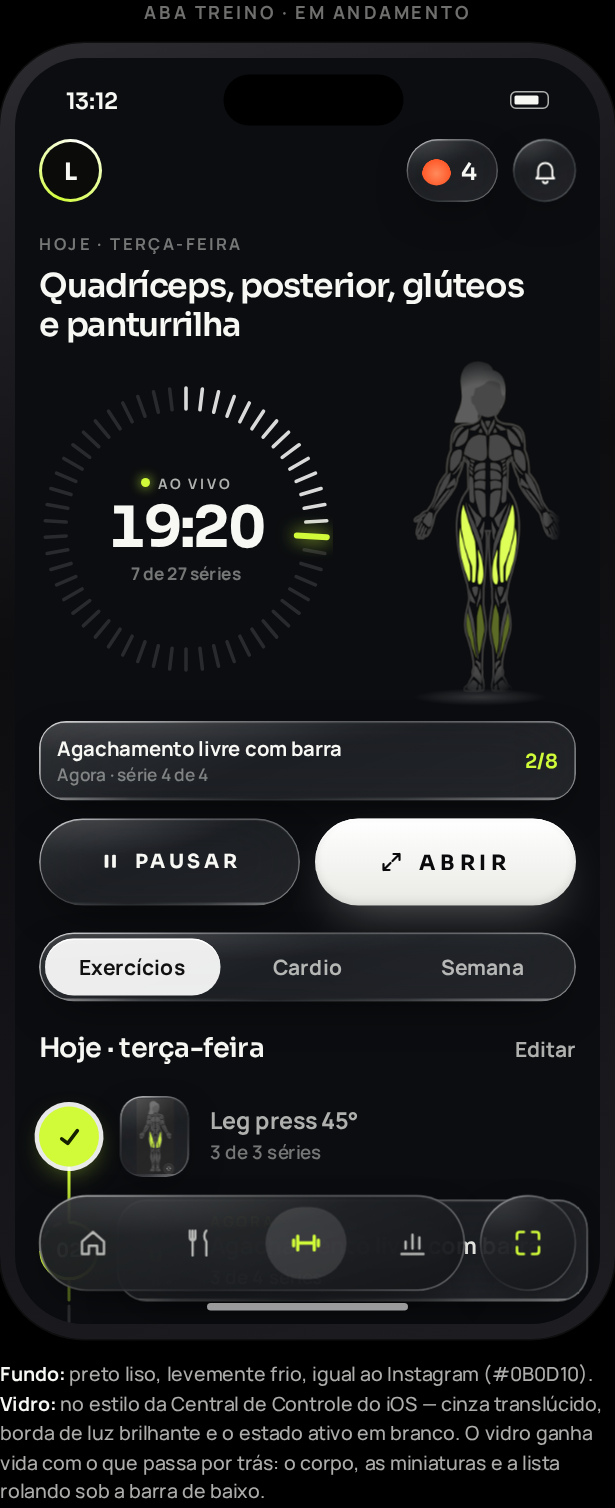
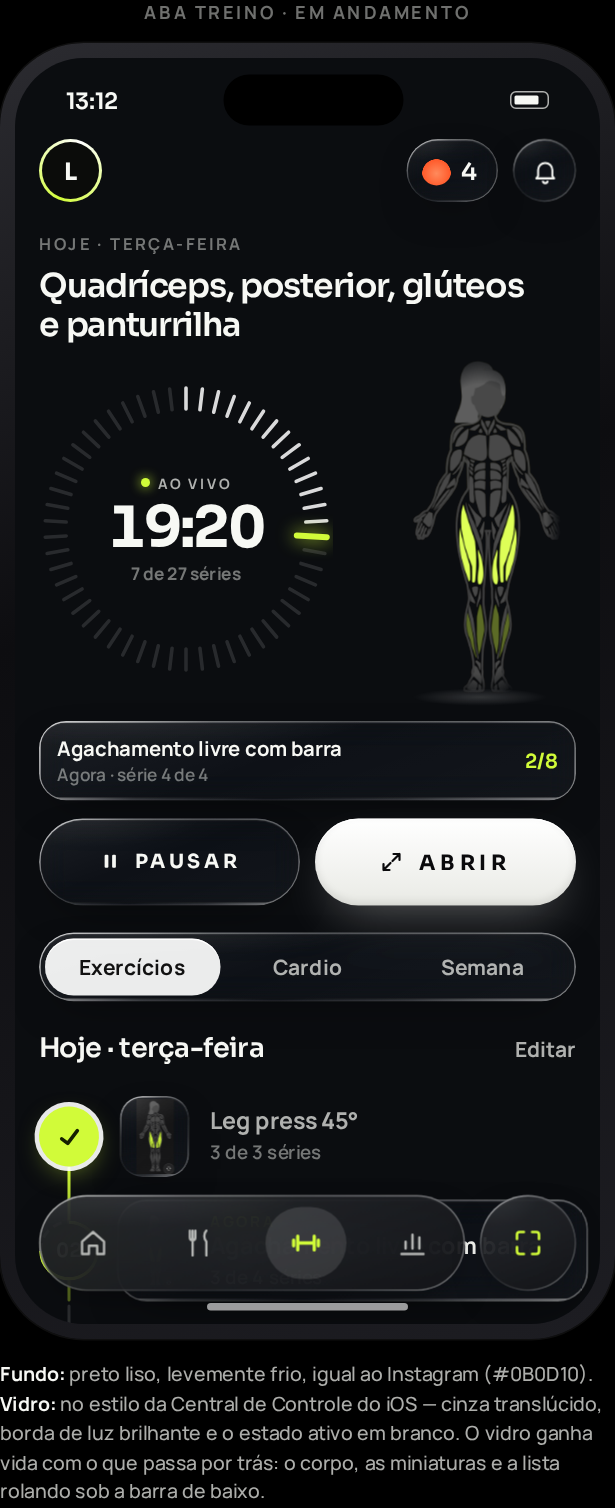
Vidro menos fosco na proposta estilo iOS
Claude-Session: https://claude.ai/code/session_012t93SzLcEenD5Rt5kwwiQ7

diff --git a/design-reference/fundos/ios.html b/design-reference/fundos/ios.html
@@ -240,9 +240,9 @@ svg{display:block}
 .screen.esc::before{display:none}
 /* vidro estilo iOS (Central de Controle / barra do Instagram): cinza translúcido,
    desfoque forte do que passa por trás, borda de luz brilhante em cima/esquerda e embaixo/direita */
-.esc .lg{background:linear-gradient(160deg,rgba(255,255,255,.16),rgba(255,255,255,.08) 45%,rgba(255,255,255,.1));backdrop-filter:blur(24px) saturate(180%);-webkit-backdrop-filter:blur(24px) saturate(180%);box-shadow:inset 0 1px 1px rgba(255,255,255,.28),inset 0 -1px 1px rgba(255,255,255,.06),0 10px 30px -12px rgba(0,0,0,.7)}
+.esc .lg{background:linear-gradient(160deg,rgba(255,255,255,.07),rgba(255,255,255,.015) 45%,rgba(255,255,255,.035));backdrop-filter:blur(10px) saturate(180%) brightness(1.1);-webkit-backdrop-filter:blur(10px) saturate(180%) brightness(1.1);box-shadow:inset 0 1px 1px rgba(255,255,255,.32),inset 0 -1px 1px rgba(255,255,255,.08),0 10px 30px -14px rgba(0,0,0,.6)}
 .esc .lg::before{padding:1.4px;background:linear-gradient(135deg,rgba(255,255,255,.75),rgba(255,255,255,.12) 28%,rgba(255,255,255,0) 50%,rgba(255,255,255,.1) 72%,rgba(255,255,255,.45))}
-.esc .lg::after{display:block;inset:0;background:radial-gradient(90% 70% at 20% 0%,rgba(255,255,255,.1),transparent 60%)}
+.esc .lg::after{display:block;inset:0;background:radial-gradient(80% 60% at 18% 0%,rgba(255,255,255,.06),transparent 55%)}
 .esc .fade{display:none}
 .esc .nav{bottom:22px}
 .esc .nav .pill,.esc .nav .fab{background:linear-gradient(160deg,rgba(40,42,46,.86),rgba(20,21,24,.9));backdrop-filter:blur(18px) saturate(180%);-webkit-backdrop-filter:blur(18px) saturate(180%)}
